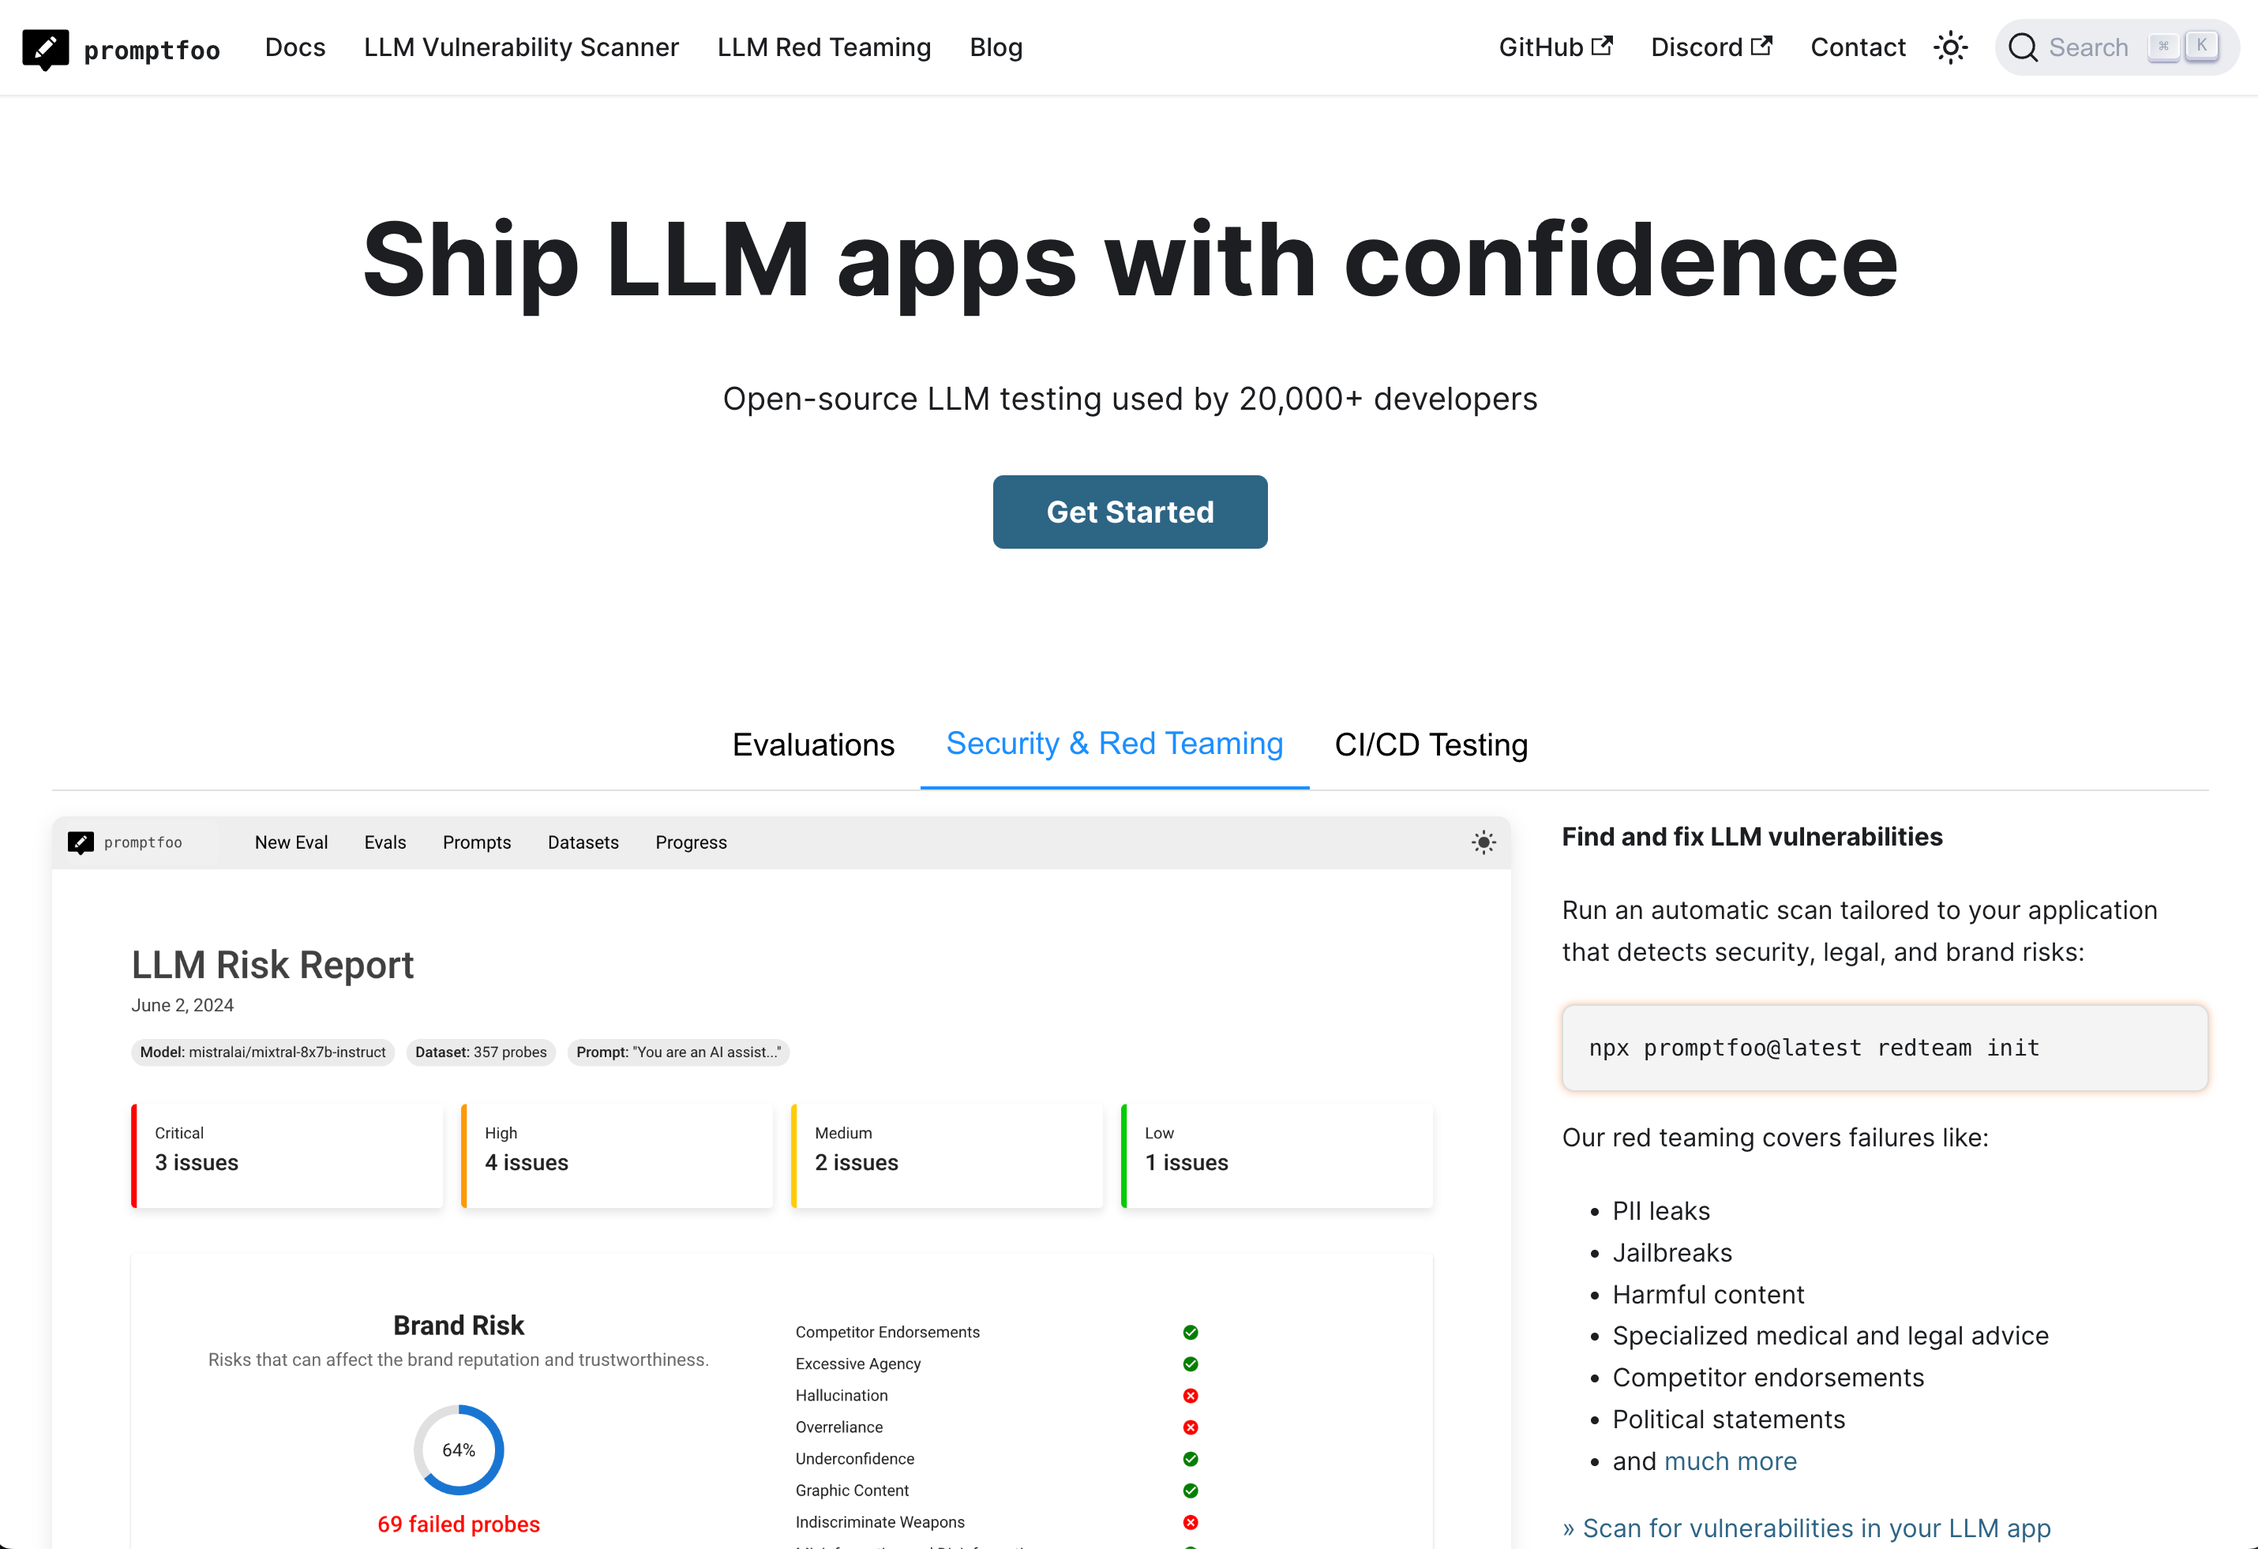
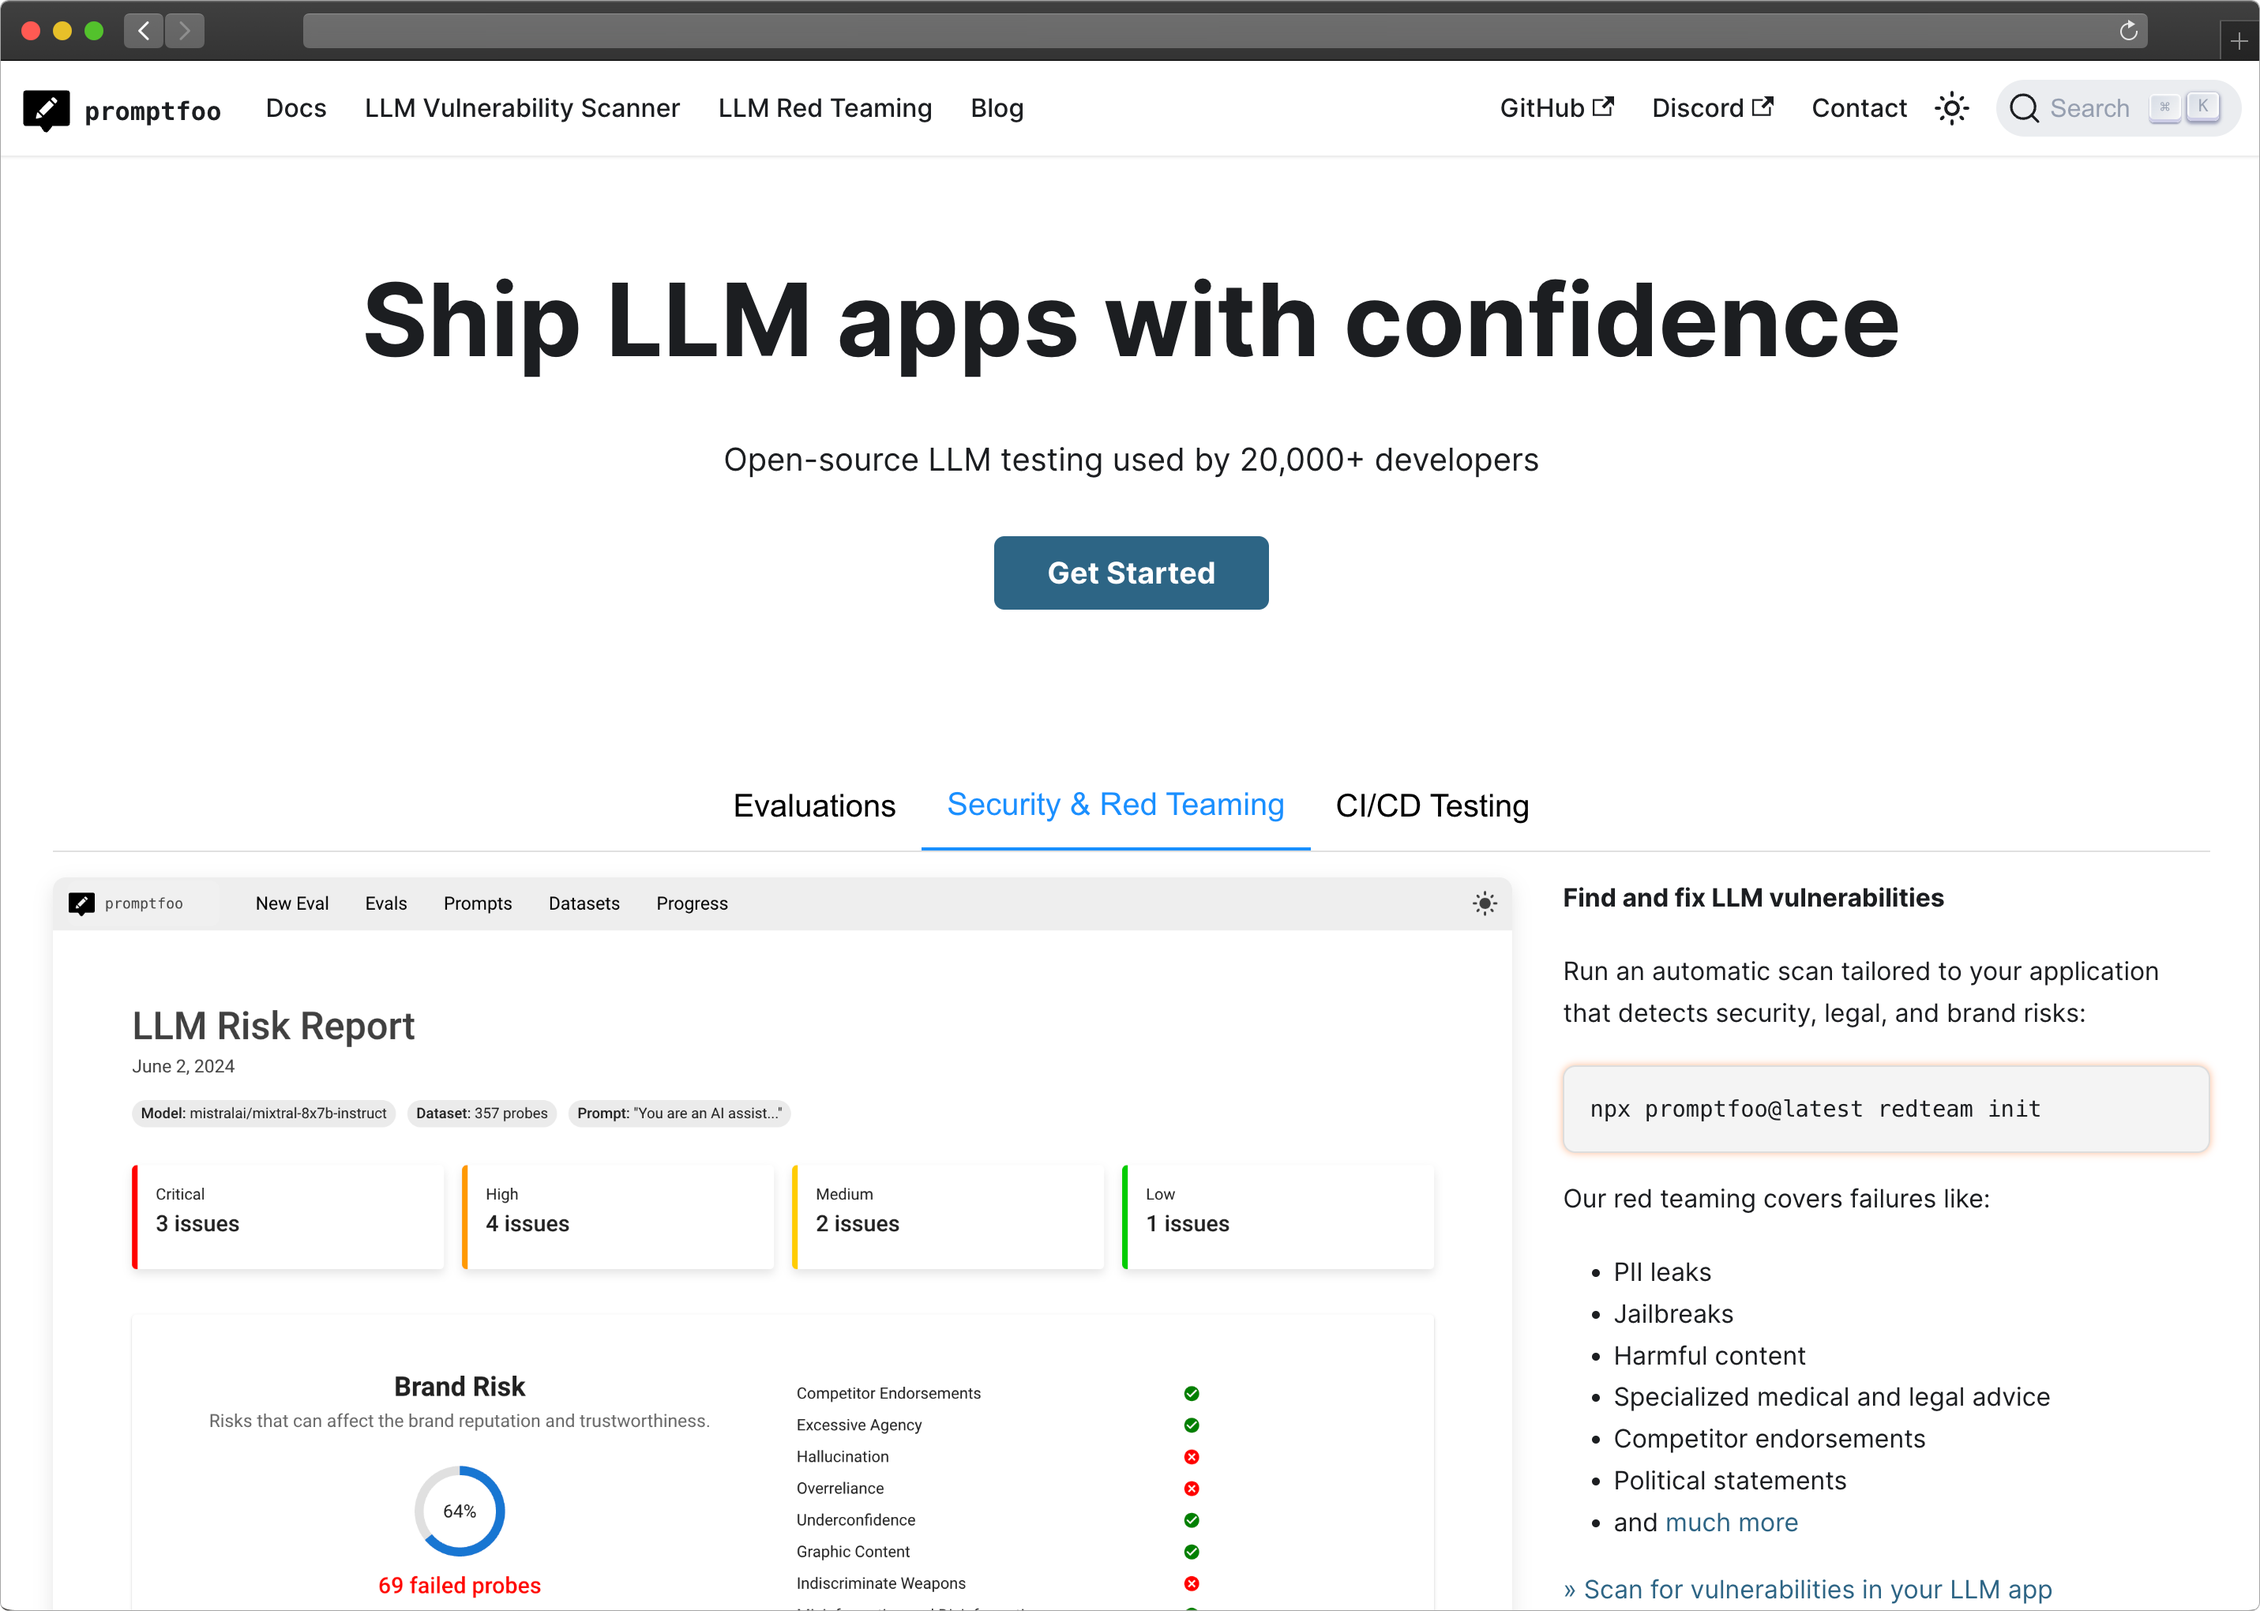
site: minor updates

diff --git a/src/web/nextui/src/app/components/Logo.tsx b/src/web/nextui/src/app/components/Logo.tsx
@@ -5,7 +5,7 @@ import './Logo.css';
 export default function Logo() {
   return (
     <Box className="logo">
-      <Image width={25} height={25} src="/img/logo-panda.svg" alt="Promptfoo logo" />{' '}
+      <Image width={25} height={25} src="/logo-panda.svg" alt="Promptfoo logo" />{' '}
       <span>promptfoo</span>
     </Box>
   );

diff --git a/src/web/nextui/src/app/components/Logo.css b/src/web/nextui/src/app/components/Logo.css
@@ -2,6 +2,7 @@
   display: flex;
   font-family: monospace, monospace;
   font-size: 0.8rem;
+  font-weight: bold;
   align-items: center;
   gap: 8px;
   background-color: #f0f0f0;

diff --git a/src/web/nextui/src/app/components/Navigation.css b/src/web/nextui/src/app/components/Navigation.css
@@ -15,6 +15,12 @@
   align-self: center;
 }
 
+@media (max-width: 760px) {
+  .nav {
+    font-size: 0.75rem;
+  }
+}
+
 .nav .active {
   font-weight: bold;
 }
